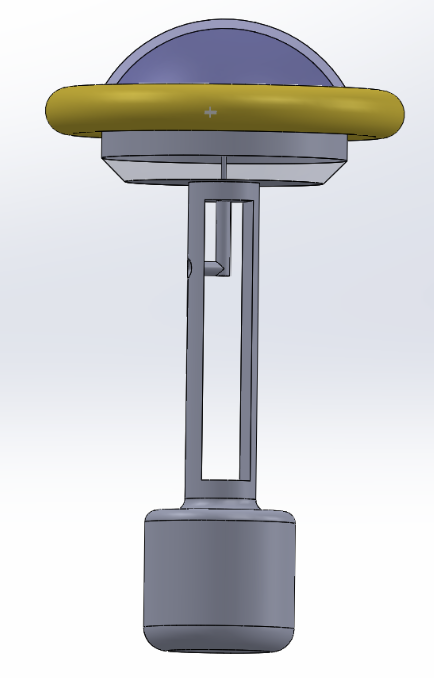
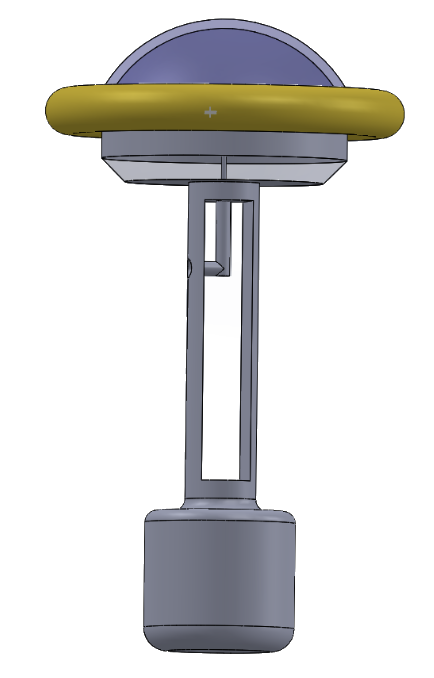
Remove backgrounds from iteration renders and reposition comparison
Cut the white background out of the iteration 1 / final iteration CAD
renders so they sit directly on the page instead of in boxed cards,
and move that comparison under the description text to fill the
leftover white space in the layout.

Changed region(s): [[0.0, 0.1549, 1.0, 0.5885]]

diff --git a/ecoli-buoy-details.html b/ecoli-buoy-details.html
@@ -81,6 +81,16 @@
                         fluorescence detection, remote data transmission, solar-assisted power, and a floating
                         mechanical platform into one system.
                     </p>
+                    <div class="detail-image-grid iteration-compare">
+                        <figure>
+                            <img src="images/ecoliBuoy.png" alt="BuE. coli iteration 1 prototype">
+                            <figcaption class="image-caption">Iteration 1</figcaption>
+                        </figure>
+                        <figure>
+                            <img src="images/E.coliBuoy2.png" alt="BuE. coli final iteration">
+                            <figcaption class="image-caption">Final Iteration</figcaption>
+                        </figure>
+                    </div>
                 </div>
                 <div class="detail-image-column">
                     <img src="images/EcoliprojectShowcase.jpeg" alt="BuE. coli project showcase">
@@ -88,17 +98,6 @@
                     <img src="images/ecoliTesting.jpeg" alt="BuE. coli lab testing">
                     <img src="images/ecoliTesting2.jpeg" alt="BuE. coli lab testing">
                 </div>
-            </div>
-
-            <div class="detail-image-grid iteration-compare">
-                <figure>
-                    <img src="images/ecoliBuoy.png" alt="BuE. coli iteration 1 prototype">
-                    <figcaption class="image-caption">Iteration 1</figcaption>
-                </figure>
-                <figure>
-                    <img src="images/E.coliBuoy2.png" alt="BuE. coli final iteration">
-                    <figcaption class="image-caption">Final Iteration</figcaption>
-                </figure>
             </div>
 
             <div class="detail-skills">

diff --git a/styles.css b/styles.css
@@ -1285,18 +1285,23 @@ strong {
     letter-spacing: 0.3px;
 }
 
+.iteration-compare {
+    margin-top: 2rem;
+    margin-bottom: 1.5rem;
+}
+
 .iteration-compare img {
-    height: 340px;
+    height: 220px;
     width: 100%;
     object-fit: contain;
-    background: var(--bg-light);
-    padding: 1.5rem;
-    box-sizing: border-box;
+    border-radius: 0;
+    box-shadow: none;
+    background: transparent;
 }
 
 @media (max-width: 768px) {
     .iteration-compare img {
-        height: 260px;
+        height: 200px;
     }
 }
 
